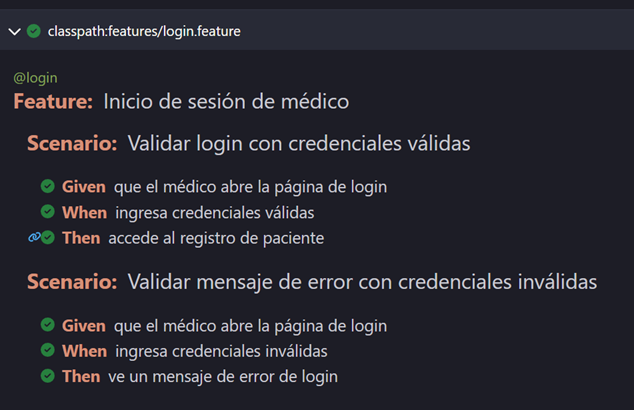
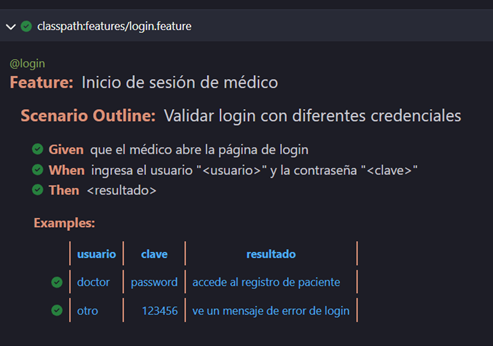
Scenario Outline y Readme

diff --git a/src/test/java/cl/clinica/steps/LoginSteps.java b/src/test/java/cl/clinica/steps/LoginSteps.java
@@ -16,10 +16,10 @@ LoginPage loginPage;
     loginPage.abrir();
   }
 
-  @When("ingresa credenciales válidas")
-  public void ingresa_credenciales_válidas() {
+  @When("ingresa el usuario {string} y la contraseña {string}")
+  public void ingresa_el_usuario_y_la_contraseña(String usuario, String clave) {
     loginPage = new LoginPage();
-    loginPage.login("doctor", "password");
+    loginPage.login(usuario, clave);
   }
 
   @Then("accede al registro de paciente")

diff --git a/README.md b/README.md
@@ -1,0 +1,122 @@
+```markdown
+# 🏥 Clínica Modular - Automatización de Pruebas
+
+Este proyecto automatiza pruebas funcionales para la aplicación web [Clínica Modular](https://clinica-modular.netlify.app/) utilizando **Selenium WebDriver**, **JUnit 5**, y **Cucumber** con enfoque **BDD**. Las pruebas validan el flujo de login y el registro de fichas clínicas, incluyendo reglas de negocio específicas.
+
+## 🚀 Tecnologías Utilizadas
+
+- Java 17+
+- Selenium WebDriver
+- WebDriverManager
+- JUnit 5
+- Cucumber (Gherkin)
+- Maven
+
+## 📁 Estructura del Proyecto
+
+```
+src/
+├── main/
+│   └── java/
+│       └── cl.clinica/
+
+├── test/
+│   └── java/
+│       └── cl.clinica/
+│           ├── hooks/         # Manejo de WebDriver (DriverHolder, Hooks)
+│           ├── pages/         # Page Objects (LoginPage, FichaPage)
+│           ├── steps/         # Definición de pasos Gherkin (LoginSteps, FichaSteps)
+│           └── RunCucumberTest.java
+resources/
+└── features/                  # Archivos .feature con escenarios BDD
+```
+
+
+## 🧪 Escenarios Gherkin
+
+### 🟦 `@login` - Inicio de sesión de médico
+
+```gherkin
+Feature: Inicio de sesión de médico
+
+Scenario Outline: Validar login con diferentes credenciales
+  Given que el médico abre la página de login
+  When ingresa el usuario "<usuario>" y la contraseña "<clave>"
+  Then <resultado>
+
+  Examples:
+    | usuario | clave     | resultado                                |
+    | doctor  | password  | accede al registro de paciente           |
+    | otro    | 123456    | ve un mensaje de error de login          |
+
+
+🟩 @ficha - Carga de ficha clínic
+
+Feature: Carga de ficha clínica
+
+  Scenario: Ingreso de ficha clínica completa
+    Given que el médico accede al formulario de ficha clínica
+    When ingresa el nombre del paciente diagnóstico edad y tratamiento
+    Then ve un mensaje de confirmación de ficha registrada con éxito
+
+
+🟥 @reglas - Validación de reglas clínica
+
+Feature: Validación de reglas clínicas
+
+  Scenario: Diagnóstico para pacientes pediátricos
+    Given que el médico accede al formulario de ficha clínica
+    When ingresa una edad menor a 12 años
+    Then ve un mensaje que indica que el diagnóstico debe ser Pediátrico
+
+  Scenario: Impedir guardado sin tratamiento
+    Given que el médico accede al formulario de ficha clínica
+    When deja el campo de tratamiento vacío
+    Then ve un mensaje de error indicando que el tratamiento es obligatorio
+
+
+## 🧪 Escenarios Cubiertos
+
+### Login
+- ✅ Acceso exitoso con credenciales válidas
+- ❌ Mensaje de error con credenciales inválidas
+
+### Ficha Clínica
+- ✅ Registro exitoso de ficha
+- ❌ Validación de diagnóstico pediátrico para menores de 12 años
+- ❌ Validación de campo obligatorio para tratamiento
+
+## 🧷 Hooks y Gestión de Driver
+
+Se utiliza `ThreadLocal<WebDriver>` para garantizar aislamiento entre escenarios. Los hooks (`@Before`, `@After`) inicializan y cierran el navegador, capturando screenshots en caso de fallo.
+
+## 🧾 Ejecución de Pruebas
+
+```bash
+mvn test
+```
+
+El reporte HTML se genera en:
+
+```
+target/cucumber-report.html
+```
+
+## 🧠 Buenas Prácticas
+
+- Uso de Page Object Model (POM) para encapsular interacciones
+- Modularidad con `DriverHolder` para gestión centralizada del WebDriver
+- Separación clara entre lógica de prueba y definición de pasos
+
+## 📌 Requisitos Previos
+
+- Java 17+
+- Maven instalado
+- Conexión a internet (para WebDriverManager)
+
+## 👨💻 Autor
+
+Desarrollado por Mauricio — especialista en automatización, diseño modular y pruebas escalables.
+
+```
+
